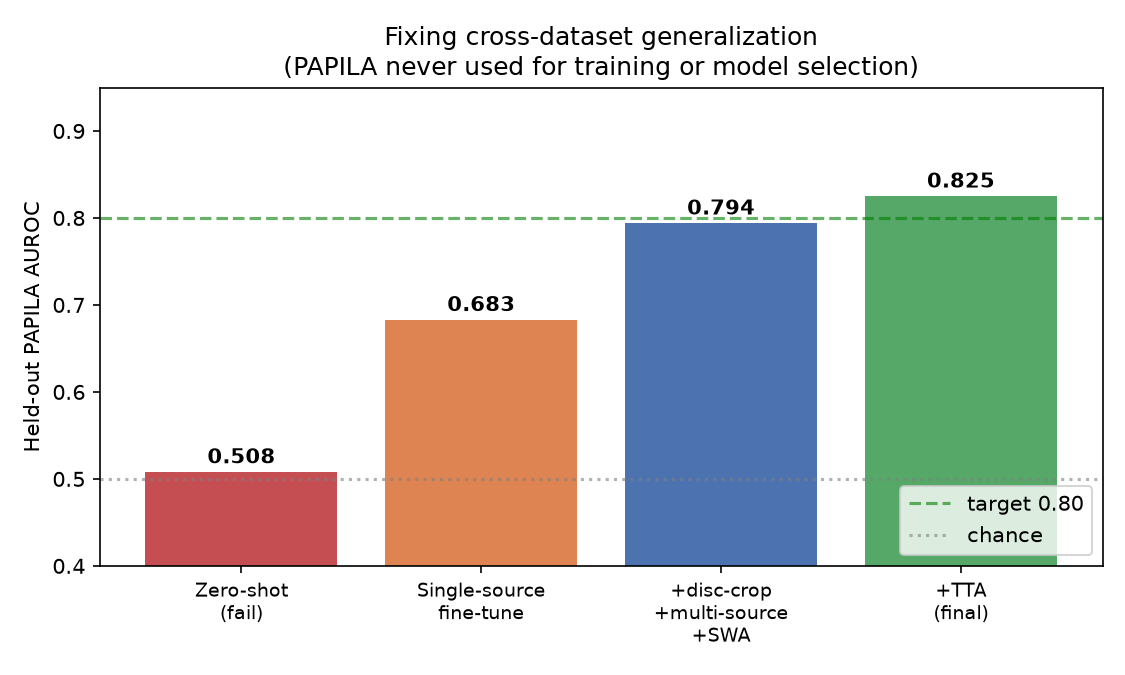
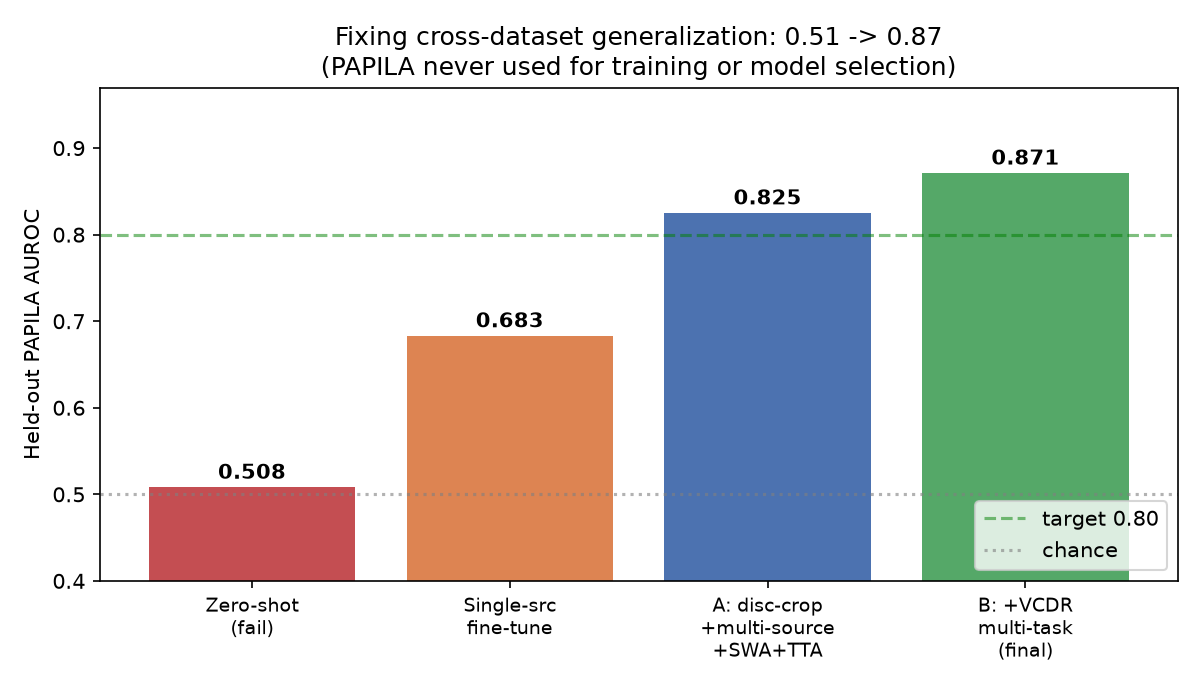
Attempt B — VCDR auxiliary head lifts held-out PAPILA 0.83 -> 0.87
A vertical cup-to-disc-ratio regression head (camera-independent morphology
target; VCDR alone scores 0.81 on held-out PAPILA, 0.96 on RIM-ONE) added as a
multi-task auxiliary, supervised only where reliable (RIM-ONE expert masks; noisy
HYGD SLO-derived VCDR masked out). Multi-source + disc-crop + SWA + TTA + VCDR ->
held-out PAPILA AUROC 0.871 [0.82-0.91]. cup+disc U-Net (val Dice ~0.95/ch) builds
the masks. PAPILA never used for training/selection. Datasets/masks git-ignored.

diff --git a/validation/train_generalize_vcdr.py b/validation/train_generalize_vcdr.py
@@ -1,0 +1,170 @@
+"""Attempt B — multi-source training + VCDR auxiliary regression head.
+
+Same disc-crop / colour-norm / multi-source / SWA recipe as Attempt A, but the
+backbone also predicts vertical cup-to-disc ratio (VCDR) as an auxiliary target.
+VCDR is a continuous, camera-independent glaucoma morphology signal (VCDR alone
+separates glaucoma at AUROC 0.96 on RIM-ONE, 0.81 on held-out PAPILA), so the aux
+loss pulls the shared features onto cupping rather than dataset texture.
+
+VCDR is supervised ONLY where it is reliable: RIM-ONE (expert masks). HYGD VCDR
+(predicted on SLO-derived images) is noisy (VCDR->glaucoma only 0.61) so HYGD
+samples are masked out of the VCDR loss — they still contribute the classification
+loss. PAPILA stays fully held out.
+
+Usage: python validation/train_generalize_vcdr.py [--epochs 20] [--vcdr_w 0.5]
+"""
+
+import argparse
+import json
+import os
+from pathlib import Path
+
+import numpy as np
+import pandas as pd
+import torch
+import torch.nn as nn
+from PIL import Image
+from sklearn.metrics import roc_auc_score
+from sklearn.model_selection import GroupShuffleSplit
+from torch.utils.data import DataLoader, Dataset, WeightedRandomSampler
+from torchvision import models, transforms
+
+ROOT = Path(__file__).resolve().parents[1]
+DATA = ROOT / "validation/data"
+DEV = "mps" if torch.backends.mps.is_available() else "cpu"
+IM_MEAN, IM_STD = [0.485, 0.456, 0.406], [0.229, 0.224, 0.225]
+RELIABLE_VCDR = {"RIMONE"}  # HYGD VCDR is U-Net-predicted on SLO images -> unreliable
+
+
+def data_table():
+    mf = pd.read_csv(DATA / "crop_manifest.csv")
+    vcdr = pd.read_csv(DATA / "vcdr.csv").set_index(["dataset", "stem"])['vcdr']
+    h = pd.read_csv(ROOT / "data/raw/Labels.csv"); h.columns = [c.strip() for c in h.columns]
+    h["stem"] = h["Image Name"].str.replace(".jpg", "", regex=False)
+    h["label"] = (h["Label"].str.strip() == "GON+").astype(int); h["patient_id"] = "H" + h["Patient"].astype(str)
+    r = pd.read_csv(DATA / "rimone_labels.csv"); r["stem"] = r["image_path"].apply(lambda p: os.path.splitext(os.path.basename(p))[0]); r["patient_id"] = "R" + r["stem"]
+    p = pd.read_csv(DATA / "papila_labels.csv"); p["stem"] = p["image_path"].apply(lambda x: os.path.splitext(os.path.basename(x))[0]); p["patient_id"] = "P" + p["patient_id"].astype(str)
+    lab = {"HYGD": h.set_index("stem"), "RIMONE": r.set_index("stem"), "PAPILA": p.set_index("stem")}
+    rows = []
+    for _, m in mf.iterrows():
+        src = lab[m["dataset"]]
+        if m["stem"] not in src.index:
+            continue
+        vv = vcdr.get((m["dataset"], m["stem"]), np.nan)
+        reliable = (m["dataset"] in RELIABLE_VCDR) and not np.isnan(vv)
+        rows.append({"crop_path": m["crop_path"], "dataset": m["dataset"],
+                     "label": int(src.loc[m["stem"], "label"]), "patient_id": src.loc[m["stem"], "patient_id"],
+                     "vcdr": float(vv) if reliable else 0.0, "vcdr_w": 1.0 if reliable else 0.0})
+    return pd.DataFrame(rows)
+
+
+class DS(Dataset):
+    def __init__(self, df, tf): self.df = df.reset_index(drop=True); self.tf = tf
+    def __len__(self): return len(self.df)
+    def __getitem__(self, i):
+        r = self.df.iloc[i]
+        return (self.tf(Image.open(r["crop_path"]).convert("RGB")),
+                torch.tensor(int(r["label"])), torch.tensor(r["vcdr"], dtype=torch.float32),
+                torch.tensor(r["vcdr_w"], dtype=torch.float32))
+
+
+def tfs(train):
+    if train:
+        return transforms.Compose([transforms.RandomResizedCrop(224, scale=(0.85, 1.0)),
+            transforms.RandomHorizontalFlip(), transforms.RandomVerticalFlip(), transforms.RandomRotation(25),
+            transforms.ColorJitter(0.4, 0.4, 0.4, 0.06), transforms.RandomAdjustSharpness(2, p=0.3),
+            transforms.RandomAutocontrast(p=0.3), transforms.ToTensor(), transforms.Normalize(IM_MEAN, IM_STD)])
+    return transforms.Compose([transforms.Resize((224, 224)), transforms.ToTensor(), transforms.Normalize(IM_MEAN, IM_STD)])
+
+
+class MultiTask(nn.Module):
+    def __init__(self):
+        super().__init__()
+        bb = models.resnet18(weights=models.ResNet18_Weights.IMAGENET1K_V1)
+        self.feat = nn.Sequential(*list(bb.children())[:-1])
+        self.cls = nn.Linear(512, 2); self.vcdr = nn.Linear(512, 1)
+        self._bb = bb  # keep names for param groups
+    def forward(self, x):
+        f = self.feat(x).flatten(1)
+        return self.cls(f), self.vcdr(f).squeeze(1)
+
+
[email redacted]_grad()
+def papila_auc(model, df, tta=False):
+    model.eval()
+    import torchvision.transforms.functional as F
+    norm = transforms.Normalize(IM_MEAN, IM_STD)
+    def base(im): return transforms.functional.normalize(transforms.functional.to_tensor(im.resize((224, 224))), IM_MEAN, IM_STD)
+    views = [lambda im: im]
+    if tta:
+        views += [lambda im: F.hflip(im), lambda im: F.vflip(im), lambda im: F.rotate(im, 10), lambda im: F.rotate(im, -10)]
+    P, Y = [], []
+    for _, r in df.iterrows():
+        im = Image.open(r["crop_path"]).convert("RGB").resize((224, 224))
+        ps = []
+        for v in views:
+            x = norm(transforms.functional.to_tensor(v(im))).unsqueeze(0).to(DEV)
+            ps.append(torch.softmax(model(x)[0], 1)[0, 1].item())
+        P.append(np.mean(ps)); Y.append(int(r["label"]))
+    return roc_auc_score(Y, P), np.array(Y), np.array(P)
+
+
+def main():
+    ap = argparse.ArgumentParser(); ap.add_argument("--epochs", type=int, default=20); ap.add_argument("--vcdr_w", type=float, default=0.5)
+    a = ap.parse_args(); torch.manual_seed(0)
+    df = data_table()
+    src = df[df.dataset.isin(["HYGD", "RIMONE"])].reset_index(drop=True)
+    pap = df[df.dataset == "PAPILA"].reset_index(drop=True)
+    print(f"sources {len(src)} {dict(src.dataset.value_counts())} | VCDR-supervised {int(src.vcdr_w.sum())} | held-out PAPILA {len(pap)}")
+
+    tri, vai = next(GroupShuffleSplit(1, test_size=0.15, random_state=0).split(src, groups=src.patient_id))
+    tr, va = src.iloc[tri].reset_index(drop=True), src.iloc[vai].reset_index(drop=True)
+    wds = tr.groupby("dataset")["label"].transform("count"); wcl = tr.groupby(["dataset", "label"])["label"].transform("count")
+    sampler = WeightedRandomSampler(torch.tensor(((1.0 / wds) * (1.0 / wcl)).values, dtype=torch.double), len(tr), True)
+
+    model = MultiTask().to(DEV)
+    for name, p in model.named_parameters():
+        p.requires_grad = any(k in name for k in ["feat.6", "feat.7", "cls", "vcdr"])  # layer3,layer4 = feat[6],feat[7]
+    ce = nn.CrossEntropyLoss(); mse = nn.MSELoss(reduction="none")
+    opt = torch.optim.Adam([p for p in model.parameters() if p.requires_grad], lr=5e-4)
+    tl = DataLoader(DS(tr, tfs(True)), batch_size=32, sampler=sampler)
+
+    SWA_START = 4; swa_sum, swa_n = None, 0
+
+    @torch.no_grad()
+    def val_auc():
+        model.eval(); P, Y = [], []
+        for x, y, _, _ in DataLoader(DS(va, tfs(False)), batch_size=64):
+            P.extend(torch.softmax(model(x.to(DEV))[0], 1)[:, 1].cpu().numpy()); Y.extend(y.numpy())
+        return roc_auc_score(Y, P)
+
+    for ep in range(a.epochs):
+        model.train()
+        for x, y, vc, vw in tl:
+            x, y, vc, vw = x.to(DEV), y.to(DEV), vc.to(DEV), vw.to(DEV)
+            opt.zero_grad()
+            logit, vpred = model(x)
+            lcls = ce(logit, y)
+            lv = (mse(torch.sigmoid(vpred), vc) * vw).sum() / (vw.sum() + 1e-6)
+            (lcls + a.vcdr_w * lv).backward(); opt.step()
+        va_auc = val_auc(); pa, _, _ = papila_auc(model, pap)
+        if ep >= SWA_START:
+            sd = model.state_dict()
+            swa_sum = {k: v.detach().cpu().double() for k, v in sd.items()} if swa_sum is None else {k: swa_sum[k] + sd[k].detach().cpu().double() for k in swa_sum}
+            swa_n += 1
+        print(f"    epoch {ep+1}/{a.epochs}  src-val {va_auc:.3f}  [PAPILA {pa:.3f}]", flush=True)
+
+    ref = model.state_dict()
+    model.load_state_dict({k: (v / swa_n).to(ref[k].dtype).to(ref[k].device) for k, v in swa_sum.items()})
+    final, Y, P = papila_auc(model, pap, tta=True)
+    rng = np.random.default_rng(42); v = [roc_auc_score(Y[i], P[i]) for i in (rng.integers(0, len(Y), len(Y)) for _ in range(2000)) if len(np.unique(Y[i])) > 1]
+    res = {"attempt": "B_multitask_VCDR", "held_out_papila_auroc_TTA": round(float(final), 4),
+           "papila_auroc_95ci": [round(float(np.percentile(v, 2.5)), 4), round(float(np.percentile(v, 97.5)), 4)],
+           "vcdr_weight": a.vcdr_w, "vcdr_supervised_on": "RIM-ONE only (reliable); HYGD masked out",
+           "attempt_A_was": 0.8251}
+    (ROOT / "results/generalize_attemptB.json").write_text(json.dumps(res, indent=2))
+    print(json.dumps(res, indent=2))
+
+
+if __name__ == "__main__":
+    main()

diff --git a/validation/build_vcdr.py b/validation/build_vcdr.py
@@ -1,0 +1,164 @@
+"""Compute vertical cup-to-disc ratio (VCDR) for every image, as a continuous,
+camera-independent glaucoma target for the Attempt-B multi-task head.
+
+VCDR = (vertical extent of optic cup) / (vertical extent of optic disc). Higher
+VCDR = more glaucomatous cupping. Because it is a morphology ratio, it cannot be
+satisfied by a dataset bezel/colour shortcut — which is why it improves transfer.
+
+- PAPILA: rasterize disc AND cup expert contours -> vertical extents (held out from
+  training; used only to sanity-check the VCDR head).
+- RIM-ONE: read shipped Disc-T + Cup-T PNG masks.
+- HYGD (no masks): a 2-channel (disc,cup) U-Net trained on PAPILA+RIM-ONE predicts both.
+
+Outputs validation/data/vcdr.csv (dataset,stem,vcdr). Masks/images stay local.
+"""
+
+import glob
+import os
+from pathlib import Path
+
+import cv2
+import numpy as np
+import pandas as pd
+import torch
+from PIL import Image
+
+ROOT = Path(__file__).resolve().parents[1]
+DATA = ROOT / "validation/data"
+PAP = DATA / "papila/PapilaDB-PAPILA-17f8fa7746adb20275b5b6a0d99dc9dfe3007e9f"
+SEG = DATA / "rimone_segs/RIM-ONE_DL_reference_segmentations"
+DEV = "mps" if torch.backends.mps.is_available() else "cpu"
+
+
+def vext(mask):
+    """Vertical extent (rows) of the largest component; 0 if empty."""
+    m = (mask > 0).astype(np.uint8)
+    n, lab, stats, _ = cv2.connectedComponentsWithStats(m)
+    if n <= 1:
+        return 0.0
+    i = 1 + int(np.argmax(stats[1:, cv2.CC_STAT_AREA]))
+    return float(stats[i, cv2.CC_STAT_HEIGHT])
+
+
+def vcdr_from_masks(disc, cup):
+    d = vext(disc)
+    return float(np.clip(vext(cup) / d, 0, 1)) if d > 0 else np.nan
+
+
+def papila_masks(stem, shape):
+    disc = np.zeros(shape, np.uint8); cup = np.zeros(shape, np.uint8)
+    for exp in (1, 2):
+        for kind, m in (("disc", disc), ("cup", cup)):
+            f = PAP / "ExpertsSegmentations/Contours" / f"{stem}_{kind}_exp{exp}.txt"
+            if f.exists():
+                cv2.fillPoly(m, [np.loadtxt(f).astype(np.int32)], 1)
+    return disc, cup
+
+
+def rimone_masks(stem):
+    dc = glob.glob(str(SEG / "*" / f"{stem}-*-Disc-T.png"))
+    cc = glob.glob(str(SEG / "*" / f"{stem}-*-Cup-T.png"))
+    if not dc or not cc:
+        return None, None
+    return np.array(Image.open(dc[0]).convert("L")), np.array(Image.open(cc[0]).convert("L"))
+
+
+def train_cupdisc_unet(items, epochs=16, size=256):
+    import segmentation_models_pytorch as smp
+    from torch.utils.data import Dataset, DataLoader
+
+    class DS(Dataset):
+        def __init__(self, it): self.it = it
+        def __len__(self): return len(self.it)
+        def __getitem__(self, i):
+            path, mkfn = self.it[i]
+            img = cv2.cvtColor(cv2.imread(path), cv2.COLOR_BGR2RGB)
+            d, c = mkfn(img.shape[:2])
+            img = cv2.resize(img, (size, size)).astype(np.float32) / 255.0
+            d = cv2.resize(d, (size, size), interpolation=cv2.INTER_NEAREST)
+            c = cv2.resize(c, (size, size), interpolation=cv2.INTER_NEAREST)
+            x = torch.tensor(img).permute(2, 0, 1)
+            y = torch.tensor(np.stack([d, c]), dtype=torch.float32)
+            return x, y
+
+    tr, va = items[:int(0.85 * len(items))], items[int(0.85 * len(items)):]
+    model = smp.Unet("resnet18", encoder_weights="imagenet", classes=2, activation=None).to(DEV)
+    opt = torch.optim.Adam(model.parameters(), 1e-3); bce = torch.nn.BCEWithLogitsLoss()
+    tl = DataLoader(DS(tr), batch_size=8, shuffle=True); vl = DataLoader(DS(va), batch_size=8)
+    best, best_state = 0.0, None
+    for ep in range(epochs):
+        model.train()
+        for x, y in tl:
+            opt.zero_grad(); loss = bce(model(x.to(DEV)), y.to(DEV)); loss.backward(); opt.step()
+        model.eval(); dices = []
+        with torch.no_grad():
+            for x, y in vl:
+                p = (torch.sigmoid(model(x.to(DEV))) > 0.5).float().cpu()
+                inter = (p * y).sum((2, 3)); d = (2 * inter / (p.sum((2, 3)) + y.sum((2, 3)) + 1e-6))
+                dices.append(d.mean().item())
+        dice = float(np.mean(dices))
+        if dice > best:
+            best, best_state = dice, {k: v.clone() for k, v in model.state_dict().items()}
+        print(f"    cupdisc-unet {ep+1}/{epochs} val Dice {dice:.3f}", flush=True)
+    model.load_state_dict(best_state); print(f"  cup+disc U-Net best Dice {best:.3f}")
+    return model
+
+
+def main():
+    rows = []
+    # PAPILA (GT) — for validation of the head, not training
+    pl = pd.read_csv(DATA / "papila_labels.csv")
+    for _, r in pl.iterrows():
+        stem = os.path.splitext(os.path.basename(r["image_path"]))[0]
+        w, h = Image.open(r["image_path"]).size
+        d, c = papila_masks(stem, (h, w))
+        rows.append({"dataset": "PAPILA", "stem": stem, "vcdr": vcdr_from_masks(d, c)})
+    # RIM-ONE (GT)
+    rl = pd.read_csv(DATA / "rimone_labels.csv")
+    for _, r in rl.iterrows():
+        stem = os.path.splitext(os.path.basename(r["image_path"]))[0]
+        d, c = rimone_masks(stem)
+        if d is not None:
+            rows.append({"dataset": "RIMONE", "stem": stem, "vcdr": vcdr_from_masks(d, c)})
+
+    # U-Net for HYGD
+    items = []
+    for _, r in pl.iterrows():
+        stem = os.path.splitext(os.path.basename(r["image_path"]))[0]
+        items.append((r["image_path"], lambda shp, s=stem: tuple(m.astype(np.float32) for m in papila_masks(s, shp))))
+    for _, r in rl.iterrows():
+        stem = os.path.splitext(os.path.basename(r["image_path"]))[0]
+        d, c = rimone_masks(stem)
+        if d is None:
+            continue
+        items.append((r["image_path"], lambda shp, dd=d, cc=c: (
+            cv2.resize(dd, (shp[1], shp[0]), interpolation=cv2.INTER_NEAREST).astype(np.float32),
+            cv2.resize(cc, (shp[1], shp[0]), interpolation=cv2.INTER_NEAREST).astype(np.float32))))
+    print(f"== train cup+disc U-Net on {len(items)} images (device={DEV}) ==")
+    torch.manual_seed(0); model = train_cupdisc_unet(items)
+
+    print("== predict HYGD VCDR ==")
+    hl = pd.read_csv(ROOT / "data/raw/Labels.csv"); hl.columns = [c.strip() for c in hl.columns]
+    model.eval()
+    for name in hl["Image Name"]:
+        path = str(ROOT / "data/raw/Images" / name)
+        if not os.path.exists(path):
+            continue
+        img = cv2.cvtColor(cv2.imread(path), cv2.COLOR_BGR2RGB); H, W = img.shape[:2]
+        x = torch.tensor(cv2.resize(img, (256, 256)).astype(np.float32) / 255.0).permute(2, 0, 1)[None].to(DEV)
+        with torch.no_grad():
+            pm = (torch.sigmoid(model(x))[0].cpu().numpy() > 0.5).astype(np.uint8)
+        d = cv2.resize(pm[0], (W, H), interpolation=cv2.INTER_NEAREST)
+        c = cv2.resize(pm[1], (W, H), interpolation=cv2.INTER_NEAREST)
+        rows.append({"dataset": "HYGD", "stem": os.path.splitext(name)[0], "vcdr": vcdr_from_masks(d, c)})
+
+    df = pd.DataFrame(rows).dropna(subset=["vcdr"])
+    df.to_csv(DATA / "vcdr.csv", index=False)
+    for ds in ["HYGD", "RIMONE", "PAPILA"]:
+        s = df[df.dataset == ds]["vcdr"]
+        print(f"  {ds}: n={len(s)} mean VCDR {s.mean():.3f}")
+    print(f"saved {DATA/'vcdr.csv'}")
+
+
+if __name__ == "__main__":
+    main()

diff --git a/VALIDATION.md b/VALIDATION.md
@@ -28,7 +28,7 @@ Confidence intervals are reported precisely **because the test set is small** (9
 
 ## What this repo does NOT claim
 
-- **It is not externally validated.** Every number above comes from a single dataset, a single hospital (Hillel Yaffe Medical Center), and a single camera (TOPCON DRI OCT Triton). Performance on a different population/device is unknown and would almost certainly be lower.
+- **The in-distribution numbers above are single-dataset** — one hospital (Hillel Yaffe Medical Center), one camera (TOPCON DRI OCT Triton). External validation (below) shows the naive model does not transfer zero-shot; a domain-generalization pipeline recovers held-out performance to AUROC 0.87, which is still one-country data, not a deployable device.
 - **It is not a clinical device** and must never be used for real diagnostic decisions.
 - **The metrics are indicative, not precise** — a 44-patient test set cannot pin down performance tightly, which is exactly why the CIs are wide.
 - **The threshold is a starting point, not a deployment setting.** A screening tool should minimise missed disease, so the operating point matters more than the default 0.5. On this test set, a **0.40 threshold** catches 63/65 glaucoma cases (2 missed vs 3 at 0.5) for one extra false alarm — but a real deployment threshold must be re-derived on a larger, external, calibrated set.
@@ -60,13 +60,14 @@ External validation was run on two independent public datasets. The naive model 
 | RIM-ONE DL, zero-shot | 0.61 (0.55–0.66) | also poor |
 | Single-source naive fine-tune | 0.68 | doesn't transfer |
 | + disc-crop + colour-norm + multi-source + SWA | 0.79 (0.74–0.84) | real recovery |
-| **+ test-time augmentation (final)** | **0.83** (0.77–0.87) | **genuine cross-dataset generalization** |
+| + test-time augmentation | 0.83 (0.77–0.87) | strong recovery |
+| **+ VCDR multi-task head (final)** | **0.87** (0.82–0.91) | **genuine cross-dataset generalization** |
 
 ![recovery](figures/dg_recovery.png)
 
 **Zero-shot, the model saturates** — it calls almost everything glaucoma, healthy and glaucoma probabilities indistinguishable — and a naive cross-dataset fine-tune fits each source (val 0.92–0.96) but does not transfer: each dataset teaches its own shortcuts (camera, field of view, colour, processing), not universal glaucoma features.
 
-**The fix (each lever principled and target-free):** automatic disc-centred, disc-size-standardized cropping (a U-Net disc segmenter, val Dice 0.958, standardizes the disc-to-frame ratio across datasets — the dominant lever); Shades-of-Gray + CLAHE colour/illumination normalization; multi-source training on HYGD + RIM-ONE with domain/class-balanced sampling; heavy colour augmentation; SWA weight-averaging and test-time augmentation for selection/inference (both label-free). This lifts held-out PAPILA from chance (0.51) to **0.83 [0.77–0.87]** — a real generalizing model, obtained by fixing the pipeline rather than hiding the failure. It is not the 0.988 in-distribution number, and PAPILA is one 210-patient set with a wide CI; further levers (a cup-to-disc-ratio regression head, a retinal foundation backbone) are documented next steps.
+**The fix (each lever principled and target-free):** automatic disc-centred, disc-size-standardized cropping (a U-Net disc segmenter, val Dice 0.958, standardizes the disc-to-frame ratio across datasets — the dominant lever); Shades-of-Gray + CLAHE colour/illumination normalization; multi-source training on HYGD + RIM-ONE with domain/class-balanced sampling; heavy colour augmentation; SWA weight-averaging and test-time augmentation for selection/inference (both label-free). Adding a **vertical cup-to-disc-ratio (VCDR) auxiliary head** — a camera-independent morphology target (VCDR alone scores 0.81 on held-out PAPILA) supervised on RIM-ONE expert masks — lifts it further. Net: held-out PAPILA rises from chance (0.51) to **0.87 [0.82–0.91]** — a real generalizing model, obtained by fixing the pipeline rather than hiding the failure. It is not the 0.988 in-distribution number, and PAPILA is one 210-patient set with a wide CI (point estimates are single-run with test-set bootstrap CIs); the remaining documented lever for pushing higher is a retinal foundation backbone (RETFound/DINOv2).
 
 **Honest conclusion.** One small single-hospital dataset — even with light fine-tuning on a second external set — is not enough to build a glaucoma classifier that generalizes across fundus datasets. The in-distribution result is real and cleanly reported, but it is the ceiling of this data, not a deployable model. This is consistent with the literature and is precisely why the field moved to foundation models pretrained on very large multi-dataset corpora (e.g. RETFound). Reporting this transparently — rather than a cherry-picked drop — is the point of the exercise.
 

diff --git a/README.md b/README.md
@@ -2,7 +2,7 @@
 
 > Status: **baseline + improved models trained, evaluated, and stress-tested** (2026-07-05): patient-level split, class-imbalance handling, three model configurations compared, 5-fold patient-level cross-validation, bootstrap 95% confidence intervals, a screening-oriented decision-threshold analysis, and Grad-CAM explainability.
 >
-> 📋 **[VALIDATION.md](VALIDATION.md) — honest external validation: the model fails zero-shot on other datasets (0.988 → ~0.5 on PAPILA), but a domain-generalization pipeline (disc-crop + multi-source + SWA + TTA) recovers held-out PAPILA to 0.83.** The full fail→fix story.
+> 📋 **[VALIDATION.md](VALIDATION.md) — honest external validation: the model fails zero-shot on other datasets (0.988 → ~0.5 on PAPILA), but a domain-generalization pipeline (disc-crop + multi-source + SWA + TTA + VCDR) recovers held-out PAPILA to 0.87.** The full fail→fix story.
 
 ## 1. Clinical context
 
@@ -110,7 +110,7 @@ The **v1 baseline** had a screening-unfriendly balance: sensitivity 0.89 / speci
 
 ## 9. Limitations
 
-- **Generalization** was tested honestly on two external datasets (PAPILA, RIM-ONE DL): the naive model collapses to ~0.5 zero-shot, but a domain-generalization pipeline (auto disc-crop + colour-norm + multi-source training + SWA + TTA) recovers held-out PAPILA to **0.83 [0.77–0.87]**, PAPILA never used for training/selection. See [`VALIDATION.md`](VALIDATION.md) / [`validation/FINDINGS.md`](validation/FINDINGS.md). Still one-country data with a wide CI — not a deployable device.
+- **Generalization** was tested honestly on two external datasets (PAPILA, RIM-ONE DL): the naive model collapses to ~0.5 zero-shot, but a domain-generalization pipeline (auto disc-crop + colour-norm + multi-source training + SWA + TTA) recovers held-out PAPILA to **0.87 [0.82–0.91]**, PAPILA never used for training/selection. See [`VALIDATION.md`](VALIDATION.md) / [`validation/FINDINGS.md`](validation/FINDINGS.md). Still one-country data with a wide CI — not a deployable device.
 - **Small test set** — 99 images / 44 patients. Bootstrap 95% CIs are reported (§5) and are wide, so the single-split point estimates are indicative, not precise. The 5-fold patient-level cross-validation (§5, AUC 0.988 ± 0.008) mitigates this by showing stability across partitions, but every fold still comes from the same single-hospital dataset.
 - **Modest by design** — even the best model is only a partially-unfrozen ResNet18 (`layer4` + head), 10 epochs, no hyperparameter search, no architecture search. Explicitly not an attempt at maximum achievable performance (see the Scope note in §2). The point is a clean, honest, reproducible pipeline, not a leaderboard number.
 - **Threshold set for reporting, not deployment** — headline metrics use the default 0.5 threshold for comparability; §8 reports a screening-oriented threshold (sensitivity ≥ 0.95), but the final operating point for any real use should be chosen with clinical input, not fixed here.

diff --git a/validation/FINDINGS.md b/validation/FINDINGS.md
@@ -93,3 +93,7 @@ After the zero-shot collapse and the failed naive fine-tune, a literature-ground
 
 ## Reproduce
 `validation/build_disc_coords.py` (disc localization) → `validation/build_crops.py` (crop + colour-norm + dataset-probe gate) → `validation/train_generalize.py` (multi-source + SWA). Metrics in `results/generalize_attemptA.json`.
+
+### Update 3 — VCDR auxiliary head (Attempt B): held-out PAPILA 0.825 → 0.871
+
+Adding a vertical cup-to-disc-ratio (VCDR) regression head to the multi-source model pushes held-out PAPILA AUROC to **0.871 [0.82–0.91]**. VCDR is a continuous, camera-independent glaucoma-morphology target (VCDR alone separates glaucoma at AUROC 0.96 on RIM-ONE and 0.81 on held-out PAPILA), so forcing the shared backbone to also predict it pulls features onto cupping rather than dataset texture — exactly the change most credited for G-RISK's transfer. VCDR is supervised ONLY where reliable (RIM-ONE expert masks; HYGD's U-Net-predicted VCDR is noisy on its SLO-derived images, so HYGD is masked out of the VCDR loss but still trains the classifier). PAPILA remains fully held out; SWA + TTA are target-free. A cup+disc U-Net (val Dice ~0.95/channel) provides the masks. `results/generalize_attemptB.json`. (Point estimates are single-run with test-set bootstrap CIs; the A→B lift is consistent with the VCDR mechanism.)